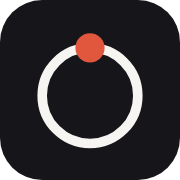
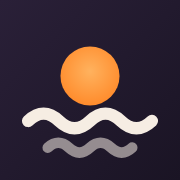
美国版改名 Flow Day，换上和中文版 flowday 相同的太阳水波图标

diff --git a/public/us/js/me.js b/public/us/js/me.js
@@ -35,13 +35,13 @@ export async function pageMe() {
         <button data-act="out"><span>Sign out</span></button>
         <button data-act="del" class="danger"><span>Delete my account</span></button>
       </div>
-      <p class="hint">${S.me.access?.beta ? 'Sixty Plus is free for everyone during the beta.' : ''}</p></div>
+      <p class="hint">${S.me.access?.beta ? 'Flow Day Plus is free for everyone during the beta.' : ''}</p></div>
   </div>`;
   $$('[data-theme]').forEach((x) => x.addEventListener('click', () => { store.set('theme', x.dataset.theme); applyTheme(); $$('[data-theme]').forEach((y) => y.setAttribute('aria-pressed', String(y === x))); }));
   $('[data-act=birth]').addEventListener('click', birthSheet);
   $$('[data-sound]').forEach((x) => x.addEventListener('click', () => { store.set('sound', +x.dataset.sound); $$('[data-sound]').forEach((y) => y.setAttribute('aria-pressed', String(y === x))); if (+x.dataset.sound) sfx('chime'); }));
   $('[data-act=fb]').addEventListener('click', () => {
-    openSheet(`<button class="x" aria-label="Close">×</button><h2 class="h2">Send feedback</h2><p class="muted" style="margin:0 0 14px">We read every note. Thank you for helping shape Sixty.</p>
+    openSheet(`<button class="x" aria-label="Close">×</button><h2 class="h2">Send feedback</h2><p class="muted" style="margin:0 0 14px">We read every note. Thank you for helping shape Flow Day.</p>
       <form id="fbForm"><textarea class="input" name="t" rows="5" maxlength="500" required style="height:auto;padding:12px 14px" placeholder="What should we know?"></textarea><p class="err"></p><button class="btn block" type="submit">Send</button></form>`);
     $('#fbForm').addEventListener('submit', async (e) => {
       e.preventDefault();
@@ -130,8 +130,8 @@ matchMedia('(prefers-color-scheme: dark)').addEventListener?.('change', applyThe
 
 // ---------- your collection of 60 ----------
 export async function pageCollection() {
-  view().innerHTML = `<div class="page" style="max-width:1080px"><p class="label" style="margin-top:6px">Your Sixty</p><h1 class="display" id="colTitle">·</h1>
-    <p class="lede">Every day has one of 60 paintings. Open Sixty on a day to collect its painting — the whole cycle takes 60 days.</p><div class="grid wall" id="wall">${loading(300)}</div></div>`;
+  view().innerHTML = `<div class="page" style="max-width:1080px"><p class="label" style="margin-top:6px">Your 60</p><h1 class="display" id="colTitle">·</h1>
+    <p class="lede">Every day has one of 60 paintings. Open Flow Day on a day to collect its painting — the whole cycle takes 60 days.</p><div class="grid wall" id="wall">${loading(300)}</div></div>`;
   try {
     const j = await api('GET', 'jiazi'), got = new Map(j.list.map((x) => [x.gz, x.day])), today = pillarOf(localDay());
     $('#colTitle').innerHTML = `<span data-n>0</span> <em>of 60</em>`; countUp($('[data-n]'), j.n, 800);
@@ -183,10 +183,10 @@ export function pagePair(code, reveal) {
     <div class="right after"><div class="sign-name"><p class="label">You & ${who}</p><h1 class="display" style="font-size:clamp(40px,11vw,58px)">${esc(e.name)}</h1><p class="poetic">${e.tag}</p></div>
       <p class="intro">${esc(e.text)}</p>
       ${pv.best ? `<div class="card" style="margin-top:16px"><p class="label">Best day to do something together</p><h3 class="h3" style="margin-top:6px">${fmt(pv.best.date || `${pv.best.y}-${String(pv.best.m).padStart(2, '0')}-${String(pv.best.d).padStart(2, '0')}`, 'full')}</h3></div>` : ''}
-      <div class="btns">${S.me ? '<a class="btn block" href="#/friends">See all my friends</a>' : store.get('pending')?.birth && ageOf(store.get('pending').birth.date) < 13 ? '<p class="hint">Sixty accounts are for ages 13 and up.</p>' : '<button class="btn block" id="pairSignup">Save this — create your free account</button>'}
+      <div class="btns">${S.me ? '<a class="btn block" href="#/friends">See all my friends</a>' : store.get('pending')?.birth && ageOf(store.get('pending').birth.date) < 13 ? '<p class="hint">Flow Day accounts are for ages 13 and up.</p>' : '<button class="btn block" id="pairSignup">Save this — create your free account</button>'}
         <button class="btn ghost block" id="pairShare">Share our painting</button></div></div></div>`;
   $('#pairSignup')?.addEventListener('click', () => import('./onboard.js').then((m) => m.signupSheet(`Save your sign and your painting with ${pv.who || 'your friend'}.`)));
-  $('#pairShare').addEventListener('click', () => sharePair({ art: e.art, el: mine ? elOf(mine) : 'Earth', kicker: `Me & ${pv.who || 'a friend'}`, title: e.name, sub: e.tag, meta: mine && them ? `${signName(mine)} & ${signName(them)}` : 'Sixty', body: 'Every pair of signs makes a painting of its own. What do you make with your people?' }));
+  $('#pairShare').addEventListener('click', () => sharePair({ art: e.art, el: mine ? elOf(mine) : 'Earth', kicker: `Me & ${pv.who || 'a friend'}`, title: e.name, sub: e.tag, meta: mine && them ? `${signName(mine)} & ${signName(them)}` : 'Flow Day', body: 'Every pair of signs makes a painting of its own. What do you make with your people?' }));
   if (reveal) setTimeout(() => buzz(16), 1200);
 }
 
@@ -209,19 +209,19 @@ export function pageSign(slug, reveal) {
 // ---------- terms and privacy ----------
 const LEGAL = {
   terms: ['Terms of Use', `
-    <p>Sixty is a daily calendar and reflection app based on the traditional Chinese sexagenary calendar. By creating an account you agree to these terms.</p>
+    <p>Flow Day is a daily calendar and reflection app based on the traditional Chinese sexagenary calendar. By creating an account you agree to these terms.</p>
     <h3 class="h3">For reflection and fun</h3><p>Readings, scores, best days and pairings are generated from calendar rules. They are not predictions and not medical, legal, financial or professional advice. Please make important decisions with your own judgment.</p>
     <h3 class="h3">Your account</h3><p>You must be 13 or older. Keep your password private. You can delete your account at any time in Me → Settings.</p>
     <h3 class="h3">Fair use</h3><p>Don't misuse the service, try to break it, or scrape it. We may suspend accounts that do.</p>
-    <h3 class="h3">Sixty Plus</h3><p>Paid features, when offered, are billed by Gumroad as the merchant of record. Subscriptions renew automatically until you cancel from your Gumroad receipt. During the beta, everything is free.</p>
+    <h3 class="h3">Flow Day Plus</h3><p>Paid features, when offered, are billed by Gumroad as the merchant of record. Subscriptions renew automatically until you cancel from your Gumroad receipt. During the beta, everything is free.</p>
     <h3 class="h3">Changes</h3><p>We may update the service and these terms. If the changes are significant we will tell you in the app.</p>`],
   privacy: ['Privacy Policy', `
     <p>We keep this short and plain.</p>
     <h3 class="h3">What we collect</h3><p>Your email and password (stored hashed), your birth date and optionally birth time, birth place and sex at birth, the first name you choose, and what you do in the app (like which days you open it). We also record anonymous usage events to understand which features help.</p>
-    <h3 class="h3">Why</h3><p>Only to calculate your readings, remember your collection and friends, and improve Sixty. We don't sell your data or use it for advertising.</p>
+    <h3 class="h3">Why</h3><p>Only to calculate your readings, remember your collection and friends, and improve Flow Day. We don't sell your data or use it for advertising.</p>
     <h3 class="h3">Friends</h3><p>When you connect with a friend, each of you sees your sign and the painting you make together — never each other's birthday.</p>
     <h3 class="h3">Deleting</h3><p>Delete your account any time in Me → Settings; we remove your data from our database right away (backups roll over within 14 days).</p>
-    <h3 class="h3">Children</h3><p>Sixty is not for children under 13, and we don't knowingly collect their information.</p>
+    <h3 class="h3">Children</h3><p>Flow Day is not for children under 13, and we don't knowingly collect their information.</p>
     <h3 class="h3">Contact</h3><p>Questions or requests: use the feedback option in the app.</p>`],
 };
 export function pageLegal(kind) {
@@ -260,10 +260,10 @@ export async function pageRecap(month) {
     ${r.arts.length ? `<div class="sec"><p class="label">Collected in ${name}</p><div class="miniwall">${r.arts.map((a, i) => `<img src="${art(byGz(a.gz))}" alt="" style="--i:${i}" loading="lazy">`).join('')}</div></div>` : ''}
     ${best ? `<div class="sec"><p class="label">Your strongest day</p><a class="card daymini" href="#/today?d=${best.day}"><img src="${art(pillarOf(best.day))}" alt="" width="56" height="56"><div><b>${fmt(best.day, 'full')}</b><p class="small" style="margin:2px 0 0">Scored ${best.score}</p></div><span class="go">›</span></a></div>` : ''}
     ${top ? `<div class="sec"><p class="label">Most-felt mood</p><div class="card"><h3 class="h2" style="font-size:28px">${S.C.moods[top[0]] || top[0]}</h3><p class="small" style="margin:4px 0 0">${top[1]} time${top[1] === 1 ? '' : 's'} this month</p></div></div>` : ''}
-    ${r.match?.rated >= 3 ? `<div class="sec"><p class="label">How often Sixty matched your days</p><div class="card"><h3 class="h2" style="font-size:36px">${Math.round(r.match.match / r.match.rated * 100)}%</h3><p class="small" style="margin:4px 0 0">${r.match.match} of ${r.match.rated} evenings you rated</p></div></div>` : ''}
+    ${r.match?.rated >= 3 ? `<div class="sec"><p class="label">How often Flow Day matched your days</p><div class="card"><h3 class="h2" style="font-size:36px">${Math.round(r.match.match / r.match.rated * 100)}%</h3><p class="small" style="margin:4px 0 0">${r.match.match} of ${r.match.rated} evenings you rated</p></div></div>` : ''}
     <button class="btn block" id="recapShare" style="margin-top:22px">Share my ${name}</button></div>`;
   $$('[data-n]').forEach((x) => countUp(x, +x.dataset.n, 800));
-  $('#recapShare').addEventListener('click', () => sharePair({ art: art(best ? pillarOf(best.day) : S.me.p), el: elOf(S.me.p), kicker: `My ${name}`, title: `${r.opened} days · ${r.arts.length} paintings`, sub: `${signName(S.me.p)} on Sixty`, meta: best ? `Strongest day: ${fmt(best.day, 'md')}` : 'Sixty', body: 'Every day has one of 60 paintings. Collect them all — one a day.' }));
+  $('#recapShare').addEventListener('click', () => sharePair({ art: art(best ? pillarOf(best.day) : S.me.p), el: elOf(S.me.p), kicker: `My ${name}`, title: `${r.opened} days · ${r.arts.length} paintings`, sub: `${signName(S.me.p)} on Flow Day`, meta: best ? `Strongest day: ${fmt(best.day, 'md')}` : 'Flow Day', body: 'Every day has one of 60 paintings. Collect them all — one a day.' }));
   track('us_recap');
 }
 
@@ -273,7 +273,7 @@ async function posterOf() {
   cv.width = W; cv.height = top + 10 * (cell + gap) + 150;
   const ctx = cv.getContext('2d'); ctx.fillStyle = '#F6F5F1'; ctx.fillRect(0, 0, cv.width, cv.height);
   await document.fonts.load("400 80px 'Instrument Serif'");
-  ctx.fillStyle = '#16151A'; ctx.font = "400 84px 'Instrument Serif'"; ctx.fillText('My Sixty', 60, 120);
+  ctx.fillStyle = '#16151A'; ctx.font = "400 84px 'Instrument Serif'"; ctx.fillText('My 60', 60, 120);
   ctx.font = "italic 400 40px 'Instrument Serif'"; ctx.fillStyle = '#57545A'; ctx.fillText('The full cycle, one painting a day', 420, 118);
   const x0 = (W - cols * cell - (cols - 1) * gap) / 2;
   await Promise.all(S.C.pillars.map((p, i) => new Promise((ok) => { const im = new Image(); im.onload = () => { const x = x0 + (i % cols) * (cell + gap), y = top + Math.floor(i / cols) * (cell + gap); ctx.save(); ctx.beginPath(); ctx.roundRect(x, y, cell, cell, 14); ctx.clip(); ctx.drawImage(im, x, y, cell, cell); ctx.restore(); ok(); }; im.onerror = ok; im.src = art(p); })));

diff --git a/server/us-site.js b/server/us-site.js
@@ -13,7 +13,7 @@ const HOUR = 3600000;
 
 // 发信：配了 RESEND_API_KEY 就用 Resend 发；没配时把链接写进日志，由人转发
 function makeMailer(env, log) {
-  const key = (env.RESEND_API_KEY || '').trim(), from = env.MAIL_FROM || 'Sixty <hello@mindflow.zone>';
+  const key = (env.RESEND_API_KEY || '').trim(), from = env.MAIL_FROM || 'Flow Day <hello@mindflow.zone>';
   return {
     live: !!key,
     async send(to, subject, html, text) {
@@ -43,9 +43,9 @@ export function registerUsSite({ route, db, env, log, limit, bad, HttpError, has
       const token = crypto.randomBytes(24).toString('base64url'), now = Date.now();
       db.run('INSERT INTO password_resets(token_hash, user_id, created_at, expires_at) VALUES(?,?,?,?)', sha(token), u.id, new Date(now).toISOString(), new Date(now + HOUR).toISOString());
       const link = `${publicBase(req)}/us/#/reset/${token}`;
-      await mailer.send(email, 'Reset your Sixty password',
-        `<p>Someone (hopefully you) asked to reset your Sixty password.</p><p><a href="${link}">Choose a new password</a> — this link works for one hour.</p><p>If it wasn't you, you can ignore this email.</p>`,
-        `Reset your Sixty password: ${link} (works for one hour)`).catch((e) => log.error(`[us-mail] ${e.message}`));
+      await mailer.send(email, 'Reset your Flow Day password',
+        `<p>Someone (hopefully you) asked to reset your Flow Day password.</p><p><a href="${link}">Choose a new password</a> — this link works for one hour.</p><p>If it wasn't you, you can ignore this email.</p>`,
+        `Reset your Flow Day password: ${link} (works for one hour)`).catch((e) => log.error(`[us-mail] ${e.message}`));
     }
     return { ok: true };
   });
@@ -69,9 +69,9 @@ export function registerUsSite({ route, db, env, log, limit, bad, HttpError, has
     const base = publicBase(req);
     return `<!doctype html><html lang="en"><head><meta charset="utf-8"><title>${esc(title)}</title>
 <meta name="viewport" content="width=device-width, initial-scale=1"><meta name="description" content="${esc(desc)}">
-<meta property="og:type" content="website"><meta property="og:site_name" content="Sixty"><meta property="og:title" content="${esc(title)}"><meta property="og:description" content="${esc(desc)}">
+<meta property="og:type" content="website"><meta property="og:site_name" content="Flow Day"><meta property="og:title" content="${esc(title)}"><meta property="og:description" content="${esc(desc)}">
 <meta property="og:image" content="${esc(base + image)}"><meta property="og:url" content="${esc(base + to)}"><meta name="twitter:card" content="summary_large_image">
-<meta http-equiv="refresh" content="0;url=${esc(base + to)}"></head><body><script>location.replace(${JSON.stringify(base + to)})</script><a href="${esc(base + to)}">Open Sixty</a></body></html>`;
+<meta http-equiv="refresh" content="0;url=${esc(base + to)}"></head><body><script>location.replace(${JSON.stringify(base + to)})</script><a href="${esc(base + to)}">Open Flow Day</a></body></html>`;
   };
   // 手机日历订阅（英文）：未来 60 天每天一条全天日程；定了时段的计划按手机本地时间（不带时区）
   const GAN = '甲乙丙丁戊己庚辛壬癸', pad = (n) => String(n).padStart(2, '0'), DAY = 86400000;
@@ -80,13 +80,13 @@ export function registerUsSite({ route, db, env, log, limit, bad, HttpError, has
   const hourLabel = (i) => { const a = (i * 2 + 23) % 24, f = (h) => `${h % 12 || 12}${h < 12 ? 'am' : 'pm'}`; return `${f(a)}–${f((a + 2) % 24)}`; };
   function ics({ c, userId, name, today, plans, expired, url, days = 60 }) {
     const now = new Date().toISOString().replace(/[-:]/g, '').replace(/\.\d+/, '');
-    const L = ['BEGIN:VCALENDAR', 'VERSION:2.0', 'PRODID:-//MindFlow//Sixty//EN', 'CALSCALE:GREGORIAN', 'METHOD:PUBLISH',
-      `X-WR-CALNAME:${icsText('Sixty' + (name ? ' · ' + name : ''))}`, 'REFRESH-INTERVAL;VALUE=DURATION:PT6H', 'X-PUBLISHED-TTL:PT6H'];
+    const L = ['BEGIN:VCALENDAR', 'VERSION:2.0', 'PRODID:-//MindFlow//FlowDay//EN', 'CALSCALE:GREGORIAN', 'METHOD:PUBLISH',
+      `X-WR-CALNAME:${icsText('Flow Day' + (name ? ' · ' + name : ''))}`, 'REFRESH-INTERVAL;VALUE=DURATION:PT6H', 'X-PUBLISHED-TTL:PT6H'];
     const dv = (t) => { const d = new Date(t); return `${d.getUTCFullYear()}${pad(d.getUTCMonth() + 1)}${pad(d.getUTCDate())}`; };
     const allDay = (uid, t, summary, desc) => L.push('BEGIN:VEVENT', `UID:${uid}`, `DTSTAMP:${now}`, `DTSTART;VALUE=DATE:${dv(t)}`, `DTEND;VALUE=DATE:${dv(t + DAY)}`,
       `SUMMARY:${icsText(summary)}`, `DESCRIPTION:${icsText(desc)}`, 'TRANSP:TRANSPARENT', `URL:${url}`, 'END:VEVENT');
     const [ty, tm, td] = today.split('-').map(Number), t0 = Date.UTC(ty, tm - 1, td);
-    if (expired) allDay(`expired-${userId}@mindflow.zone`, t0, 'Sixty Plus has ended', `Renew to bring your daily readings back.\n${url}`);
+    if (expired) allDay(`expired-${userId}@mindflow.zone`, t0, 'Flow Day Plus has ended', `Renew to bring your daily readings back.\n${url}`);
     else {
       for (let k = 0; k < days; k++) {
         const t = t0 + k * DAY, d = new Date(t), x = dayOut(c, d.getUTCFullYear(), d.getUTCMonth() + 1, d.getUTCDate(), true);
@@ -166,7 +166,7 @@ export function registerUsSite({ route, db, env, log, limit, bad, HttpError, has
     const { createCanvas } = canvasMod || await import('@napi-rs/canvas').then((m) => (canvasMod = m));
     const cv = createCanvas(W, H), ctx = cv.getContext('2d'), k = W / 1179;
     ctx.fillStyle = '#16151A'; ctx.fillRect(0, 0, W, H); ctx.fillStyle = '#F2F1EE'; ctx.textAlign = 'center';
-    ctx.font = `400 ${72 * k}px "Instrument Serif"`; ctx.fillText('Sixty Plus has ended', W / 2, H * 0.6);
+    ctx.font = `400 ${72 * k}px "Instrument Serif"`; ctx.fillText('Flow Day Plus has ended', W / 2, H * 0.6);
     ctx.font = `500 ${32 * k}px Inter`; ctx.fillStyle = 'rgba(242,241,238,.7)'; ctx.fillText('Renew to bring your daily lock screen back.', W / 2, H * 0.6 + 70 * k);
     return cv.encode('jpeg', 85);
   }
@@ -200,14 +200,14 @@ export function registerUsSite({ route, db, env, log, limit, bad, HttpError, has
       if (m) {
         const x = C.pillars.find((y) => y.slug === m[1]);
         if (!x) return null;
-        return sharePage(req, `${signName(x)} — ${x.name} · Sixty`, `${x.intro} There are 60 kinds of people. Which one are you?`, `/art/pillars/${x.art}`, `/us/#/sign/${x.slug}`);
+        return sharePage(req, `${signName(x)} — ${x.name} · Flow Day`, `${x.intro} There are 60 kinds of people. Which one are you?`, `/art/pillars/${x.art}`, `/us/#/sign/${x.slug}`);
       }
       m = p.match(/^\/i\/([A-Za-z0-9]{4,12})\/?$/);
       if (m) {
         const inv = db.get("SELECT * FROM users WHERE invite_code = ? AND status = 'active'", m[1].toUpperCase());
         const x = inv && inv.birth_date ? pillar(chartOf(inv).pillars[2]) : null;
         const who = inv?.nickname && !/[一-鿿]/.test(inv.nickname) ? inv.nickname : 'A friend';
-        return sharePage(req, x ? `${who} is a${/^[AEIOU]/.test(C.stems[x.stem].element) ? 'n' : ''} ${signName(x)}. What do you two make?` : 'You are invited to Sixty',
+        return sharePage(req, x ? `${who} is a${/^[AEIOU]/.test(C.stems[x.stem].element) ? 'n' : ''} ${signName(x)}. What do you two make?` : 'You are invited to Flow Day',
           'Every pair of signs makes a painting of its own. Add your birthday to see yours.', x ? `/art/pillars/${x.art}` : '/us/og.jpg', `/us/#/i/${m[1].toUpperCase()}`);
       }
       return null;

diff --git a/public/us/js/onboard.js b/public/us/js/onboard.js
@@ -22,7 +22,7 @@ export function pageLanding() {
         ${[['Your sign', 'One of 60, with its own painting, element and character.', '<circle cx="12" cy="12" r="8"/><circle cx="12" cy="4" r="2" fill="currentColor"/>'],
           ['Every day, read for you', 'Your energy, best hours, lucky colors — and why.', '<circle cx="12" cy="12" r="4"/><path d="M12 3v2M12 19v2M3 12h2M19 12h2"/>'],
           ['Your best days', 'Interview, first date, launch? See the best days ahead.', '<rect x="4" y="5" width="16" height="15" rx="3"/><path d="M4 10h16M9 14l2 2 4-4"/>'],
-          ['Collect all 60', 'Each day has a painting. Open Sixty to collect it.', '<rect x="4" y="4" width="7" height="7" rx="2"/><rect x="13" y="4" width="7" height="7" rx="2"/><rect x="4" y="13" width="7" height="7" rx="2"/><rect x="13" y="13" width="7" height="7" rx="2"/>']]
+          ['Collect all 60', 'Each day has a painting. Open Flow Day to collect it.', '<rect x="4" y="4" width="7" height="7" rx="2"/><rect x="13" y="4" width="7" height="7" rx="2"/><rect x="4" y="13" width="7" height="7" rx="2"/><rect x="13" y="13" width="7" height="7" rx="2"/>']]
           .map(([h, p, ic]) => `<div class="feature"><span class="ic"><svg viewBox="0 0 24 24" fill="none" stroke="currentColor" stroke-width="1.8" stroke-linecap="round">${ic}</svg></span><div><h3 class="h3">${h}</h3><p>${p}</p></div></div>`).join('')}
       </div></div>
       <div class="sec"><p class="label">All 60 signs</p>
@@ -114,10 +114,10 @@ export function pageReveal() {
           <div class="chips" style="margin-top:14px">${chipEl(elOf(p), `${s.polarity} ${elOf(p)}`)}<span class="chip">${p.animal}</span><span class="chip">No. ${p.no} of 60</span></div></div>
       </section>
       <section class="step" id="stepEl"><p class="label">Your five elements</p><h2 class="h2" style="margin-top:6px">What you're made of</h2><div id="elBody" style="margin-top:16px"></div></section>
-      <section class="step"><p class="label">Your card</p><h2 class="h2" style="margin-top:6px">Keep your Sixty</h2>
+      <section class="step"><p class="label">Your card</p><h2 class="h2" style="margin-top:6px">Keep your card</h2>
         <div class="card mini-sign" style="margin-top:16px"><img src="${art(p)}" alt="" width="72" height="72"><div><b>${signName(p)}</b><span>${esc(p.name)}</span><span class="small">${s.traits.join(' · ')}</span></div></div>
         <ul class="perks" style="margin-top:18px"><li>A reading every day — energy, best hours, lucky colors</li><li>Your month at a glance and your best days ahead</li><li>Collect all 60 paintings, one each day</li><li>The painting you make with each friend</li></ul>
-        ${ageOf(pend.birth.date) < 13 ? '<div class="card"><p class="muted" style="margin:0">Sixty accounts are for ages 13 and up. You can still explore all 60 signs.</p></div><a class="btn block" href="#/sixty" style="margin-top:10px">See all 60 signs</a>' : `<button class="btn block" id="toSignup">Save my Sixty — it's free</button>`}
+        ${ageOf(pend.birth.date) < 13 ? '<div class="card"><p class="muted" style="margin:0">Flow Day accounts are for ages 13 and up. You can still explore all 60 signs.</p></div><a class="btn block" href="#/sixty" style="margin-top:10px">See all 60 signs</a>' : `<button class="btn block" id="toSignup">Save my Flow Day — it's free</button>`}
         <button class="btn ghost block" id="shareMine" style="margin-top:10px">Share my sign</button>
         <p class="hint" style="text-align:center">Already have an account? <a href="#/signin">Sign in</a></p>
       </section>
@@ -159,13 +159,13 @@ export function pageReveal() {
 // ---------- accounts ----------
 export function signupSheet(note) {
   const pend = store.get('pending');
-  openSheet(`<button class="x" aria-label="Close">×</button><h2 class="h2">Save your Sixty</h2>
+  openSheet(`<button class="x" aria-label="Close">×</button><h2 class="h2">Save your Flow Day</h2>
     <p class="muted" style="margin:0 0 16px">${esc(note || 'Free. Your readings, collection and friends stay with you on any device.')}</p>
     <form id="signup">
       <label class="field"><span class="label">Email</span><input class="input" name="email" type="email" autocomplete="email" required></label>
       <label class="field"><span class="label">Password</span><input class="input" name="pw" type="password" autocomplete="new-password" minlength="8" required placeholder="At least 8 characters"></label>
       <label class="field"><span class="label">First name (optional)</span><input class="input" name="name" autocomplete="given-name" maxlength="12"></label>
-      <label class="check"><input type="checkbox" name="agree" required> <span>I agree to the <a href="#/terms" target="_blank">Terms</a> and <a href="#/privacy" target="_blank">Privacy Policy</a>, and understand Sixty is for reflection and fun, not advice.</span></label>
+      <label class="check"><input type="checkbox" name="agree" required> <span>I agree to the <a href="#/terms" target="_blank">Terms</a> and <a href="#/privacy" target="_blank">Privacy Policy</a>, and understand Flow Day is for reflection and fun, not advice.</span></label>
       <p class="err"></p><button class="btn block" type="submit">Create my account</button>
     </form>`);
   $('#signup').addEventListener('submit', async (e) => {
@@ -176,7 +176,7 @@ export function signupSheet(note) {
       await api('POST', 'auth/register', { username: f.email.value.trim(), password: f.pw.value, nickname: f.name.value.trim() || undefined, agree: true,
         birth: pend?.birth, invite: pend?.invite || undefined, anonId: anonId() });
       track('us_signup', { invite: !!pend?.invite });
-      store.del('pending'); store.del('pairPreview'); closeSheet(); toast('Welcome to Sixty'); location.hash = '#/today'; window.dispatchEvent(new Event('sixty:auth'));
+      store.del('pending'); store.del('pairPreview'); closeSheet(); toast('Welcome to Flow Day'); location.hash = '#/today'; window.dispatchEvent(new Event('sixty:auth'));
     } catch (x) { err.textContent = x.message; btn.disabled = false; }
   });
 }
@@ -229,7 +229,7 @@ export async function pageInvite(code) {
   track('us_invite_open', { sign: them?.slug });
   view().innerHTML = `<div class="page">
     <span class="chip" style="margin-top:6px">An invitation</span>
-    <h1 class="display" style="margin-top:14px;font-size:clamp(38px,10vw,56px)">${esc(who)} is ${them ? aSign(them) : 'on Sixty'}. <em>What do you two make?</em></h1>
+    <h1 class="display" style="margin-top:14px;font-size:clamp(38px,10vw,56px)">${esc(who)} is ${them ? aSign(them) : 'on Flow Day'}. <em>What do you two make?</em></h1>
     ${them ? `<div class="duo"><div><img src="${art(them)}" alt=""><div><b>${esc(who)}</b>${esc(them.name)}</div></div><div><img src="${art(S.C.pillars[0])}" alt="" style="filter:grayscale(1) opacity(.35)"><div><b>You</b>Add your birthday</div></div></div>` : ''}
     <form class="card" id="pairForm" style="margin-top:16px"><label class="label" for="pday" style="display:block;margin-bottom:8px">Your birthday</label>
       <div class="row"><input class="input" id="pday" type="text" inputmode="numeric" autocomplete="bday" placeholder="MM / DD / YYYY" maxlength="14"><button class="btn" type="submit">Reveal</button></div>

diff --git a/public/us/js/today.js b/public/us/js/today.js
@@ -202,9 +202,9 @@ function tonightHtml(t) {
   const r = t.rate || {}, sm = r.summary || {}, acc = sm.rated >= 3 ? Math.round(sm.match / sm.rated * 100) : null;
   return `<div class="card tonight"><p class="label">Tonight</p>
     ${r.today ? `<h3 class="h3" style="margin-top:6px">You rated today ${S.C.ratings[r.today - 1].toLowerCase()}.</h3>
-      <p class="muted" style="margin:4px 0 0">${acc != null ? `This month Sixty matched your days <b>${acc}%</b> of the time (${sm.match} of ${sm.rated}).` : `Rate a few more evenings and we'll show how often Sixty matches your days.`}</p>`
+      <p class="muted" style="margin:4px 0 0">${acc != null ? `This month Flow Day matched your days <b>${acc}%</b> of the time (${sm.match} of ${sm.rated}).` : `Rate a few more evenings and we'll show how often Flow Day matches your days.`}</p>`
     : `<h3 class="h3" style="margin-top:6px">How did today go?</h3><div class="rate" role="radiogroup">${S.C.ratings.map((w, i) => `<button data-s="${i + 1}" aria-label="${w}"><i>${['😣', '😕', '😐', '🙂', '😄'][i]}</i><span>${w}</span></button>`).join('')}</div>
-      <p class="hint">Your ratings show how often Sixty gets your days right.</p>`}</div>`;
+      <p class="hint">Your ratings show how often Flow Day gets your days right.</p>`}</div>`;
 }
 function wireTonight() {
   $$('.rate button').forEach((b) => b.addEventListener('click', async () => {
@@ -261,7 +261,7 @@ function installCard() {
   if (standalone || days.size < 2 || store.get('a2hs') || $('#a2hs')) return;
   const ios = /iphone|ipad|ipod/i.test(navigator.userAgent);
   $('#below').insertAdjacentHTML('beforeend', `<div class="card a2hs" id="a2hs"><button class="x" aria-label="Dismiss">×</button>
-    <p class="label">Make it a habit</p><h3 class="h3" style="margin-top:6px">Add Sixty to your Home Screen</h3>
+    <p class="label">Make it a habit</p><h3 class="h3" style="margin-top:6px">Add Flow Day to your Home Screen</h3>
     <p class="muted" style="margin:4px 0 12px;font-size:15px">Open your day in one tap, like an app.</p>
     ${installEvt ? '<button class="btn block" id="doInstall">Add to Home Screen</button>' : ios ? '<ol class="steps"><li>Tap the <b>Share</b> button in Safari</li><li>Choose <b>Add to Home Screen</b></li></ol>' : '<p class="small">Use your browser menu → <b>Install app</b> or <b>Add to Home screen</b>.</p>'}</div>`);
   $('#a2hs .x').addEventListener('click', () => { store.set('a2hs', 1); $('#a2hs').remove(); });
@@ -269,12 +269,12 @@ function installCard() {
   track('us_install_card');
 }
 
-// ---------- trust: how often Sixty matched your days (after 3 rated evenings) ----------
+// ---------- trust: how often Flow Day matched your days (after 3 rated evenings) ----------
 function accuracyChip(sm) {
   if (!sm || sm.rated < 3 || $('.acc')) return;
   const pct = Math.round(sm.match / sm.rated * 100);
   $('.tdhead > div').insertAdjacentHTML('beforeend', `<button class="chip acc" title="From your evening ratings">${pct}% match</button>`);
-  $('.acc').addEventListener('click', () => toast(`Sixty matched ${sm.match} of the ${sm.rated} evenings you rated this month`));
+  $('.acc').addEventListener('click', () => toast(`Flow Day matched ${sm.match} of the ${sm.rated} evenings you rated this month`));
 }
 
 // ---------- your people today, and the living lock screen invite ----------

diff --git a/public/us/index.html b/public/us/index.html
@@ -5,10 +5,10 @@
 <meta name="viewport" content="width=device-width, initial-scale=1, viewport-fit=cover">
 <meta name="color-scheme" content="only light">
 <meta name="theme-color" content="#F6F5F1">
-<title>Sixty — your day sign</title>
+<title>Flow Day — your day sign</title>
 <meta name="description" content="An ancient calendar gives every day — and everyone — one of 60 signs. Find yours, get a daily reading, find your best days and see the painting you make with a friend.">
 <meta property="og:type" content="website">
-<meta property="og:title" content="Sixty — your day sign">
+<meta property="og:title" content="Flow Day — your day sign">
 <meta property="og:description" content="There are 60 kinds of days. And 60 kinds of people. Which one are you?">
 <meta property="og:image" content="https://mindflow.zone/sixty/us/og.jpg">
 <meta property="og:url" content="https://mindflow.zone/sixty/us/">
@@ -17,14 +17,14 @@
 <link rel="apple-touch-icon" href="icon-180.png">
 <link rel="manifest" href="manifest.webmanifest">
 <meta name="apple-mobile-web-app-capable" content="yes">
-<meta name="apple-mobile-web-app-title" content="Sixty">
+<meta name="apple-mobile-web-app-title" content="Flow Day">
 <link rel="preload" href="fonts/instrument.woff2" as="font" type="font/woff2" crossorigin>
 <link rel="preload" href="fonts/inter.woff2" as="font" type="font/woff2" crossorigin>
 <link rel="stylesheet" href="us.css">
 </head>
 <body>
 <header class="top">
-  <a class="brand" href="#/" aria-label="Sixty, home"><svg class="logo" viewBox="0 0 24 24" aria-hidden="true"><circle cx="12" cy="12.5" r="9" fill="none" stroke="currentColor" stroke-width="1.7"/><circle cx="12" cy="3.5" r="2.6" fill="#E0573E"/></svg><span class="word">Sixty</span></a>
+  <a class="brand" href="#/" aria-label="Flow Day, home"><svg class="logo" viewBox="0 0 64 64" aria-hidden="true"><defs><linearGradient id="fdg" x1="0" y1="0" x2="1" y2="1"><stop offset="0" stop-color="#2A2038"/><stop offset="1" stop-color="#1A1424"/></linearGradient><radialGradient id="fds" cx=".5" cy=".42" r=".6"><stop offset="0" stop-color="#FFB25E"/><stop offset="1" stop-color="#FF8A2A"/></radialGradient></defs><rect width="64" height="64" rx="16" fill="url(#fdg)"/><circle cx="32" cy="27" r="10.5" fill="url(#fds)"/><path d="M10 43q5.5-5.2 11 0t11 0t11 0t11 0" fill="none" stroke="#F6EDE3" stroke-width="4.4" stroke-linecap="round"/><path d="M17 52.5q3.75-3.5 7.5 0t7.5 0t7.5 0t7.5 0" fill="none" stroke="#F6EDE3" stroke-opacity=".55" stroke-width="3.8" stroke-linecap="round"/></svg><span class="word">Flow Day</span></a>
   <span class="toplinks"><a class="toplink" href="#/sixty">All 60 signs</a><a class="toplink strong" id="signinLink" href="#/signin" hidden>Sign in</a></span>
 </header>
 <nav class="tabs" aria-label="Main">
@@ -35,7 +35,7 @@
 </nav>
 <main id="view"></main>
 <footer class="foot">
-  <p>Sixty is based on the sexagenary calendar, which has counted days in cycles of 60 for over 3,000 years.</p>
+  <p>Flow Day is based on the sexagenary calendar, which has counted days in cycles of 60 for over 3,000 years.</p>
   <p>For reflection and fun — not a prediction, and not advice. Your birth details are used only to calculate your readings. Paintings are AI-assisted.</p>
   <p><a href="#/terms">Terms</a> · <a href="#/privacy">Privacy</a></p>
 </footer>

diff --git a/public/us/js/share.js b/public/us/js/share.js
@@ -14,9 +14,8 @@ async function drawCard(o) {
   const W = 1080, H = 1920, X = 90, IW = 900, cv = document.createElement('canvas'); cv.width = W; cv.height = H;
   const ctx = cv.getContext('2d'), img = await loadImg(o.art), E = S.C.elements[o.el];
   ctx.fillStyle = '#F6F5F1'; ctx.fillRect(0, 0, W, H);
-  ctx.strokeStyle = '#16151A'; ctx.lineWidth = 5; ctx.beginPath(); ctx.arc(X + 26, 138, 23, 0, Math.PI * 2); ctx.stroke();
-  ctx.fillStyle = '#E0573E'; ctx.beginPath(); ctx.arc(X + 26, 112, 8, 0, Math.PI * 2); ctx.fill();
-  ctx.fillStyle = '#16151A'; ctx.font = "400 64px 'Instrument Serif'"; ctx.fillText('Sixty', X + 66, 160);
+  ctx.drawImage(await loadImg('logo.svg'), X, 104, 56, 56);
+  ctx.fillStyle = '#16151A'; ctx.font = "400 64px 'Instrument Serif'"; ctx.fillText('Flow Day', X + 72, 156);
   ctx.save(); ctx.shadowColor = 'rgba(20,18,14,.25)'; ctx.shadowBlur = 50; ctx.shadowOffsetY = 26; rrect(ctx, X, 230, IW, IW, 44); ctx.fillStyle = '#EFEDE7'; ctx.fill(); ctx.restore();
   ctx.save(); rrect(ctx, X, 230, IW, IW, 44); ctx.clip(); ctx.drawImage(img, X, 230, IW, IW); ctx.restore();
   ctx.font = '600 28px Inter'; const kt = o.kicker.toUpperCase(), kw = ctx.measureText(kt).width + 56;
@@ -45,7 +44,7 @@ export async function shareImage(make, filename, sign, link) {
   const canFiles = navigator.canShare && navigator.canShare({ files: [file] });
   const touch = matchMedia('(pointer: coarse)').matches;
   openSheet(`<button class="x" aria-label="Close">×</button><h2 class="h2">Your card</h2><p class="muted" style="margin:0">Sized for Stories and TikTok.</p>
-    <img class="shot" src="${url}" alt="Your Sixty card">
+    <img class="shot" src="${url}" alt="Your Flow Day card">
     ${touch ? '<p class="tip">Press and hold the image to save it to Photos.</p>' : ''}
     <div class="btns">${canFiles ? '<button class="btn block" id="doShare">Share image</button>' : ''}
     ${!touch || !canFiles ? `<a class="btn ${canFiles ? 'ghost ' : ''}block" id="doSave" href="${url}" download="${filename}">Download image</a>` : ''}

diff --git a/server/app.js b/server/app.js
@@ -396,7 +396,7 @@ export function createApp({ db, alipay, gumroad = null, env = process.env, log =
   // 首单按 ref 找到订单，续费按 subscription_id 找到用户，每次扣款加一期天数。取消续费不用处理，到期自然停。
   const gumroadDays = (recurrence) => recurrence === 'yearly' ? 365 : settings.int('member_days');
   const gumroadInfo = () => gumroad ? { monthly: gumroad.plans.monthly.cents, yearly: gumroad.plans.yearly.cents } : null;
-  // 同一个 Gumroad 商品也给美国版 Sixty 收款（订单号 SXT 开头）。不归中文版的 Ping 原样转给 GUMROAD_FORWARD_URL：
+  // 同一个 Gumroad 商品也给美国版 Flow Day 收款（订单号 SXT 开头）。不归中文版的 Ping 原样转给 GUMROAD_FORWARD_URL：
   // ref 是 SXT 开头；或没有 ref 时，续费的订阅、退款/争议的订单在这里查不到
   const gumroadForward = (env.GUMROAD_FORWARD_URL || '').trim();
   function notOurs(p) {
@@ -580,7 +580,7 @@ export function createApp({ db, alipay, gumroad = null, env = process.env, log =
     if (db.get('SELECT 1 x FROM users WHERE username = ?', username)) throw bad('这个用户名已经被用了');
     // 访客先看过能量卡的，把当时填的出生信息一起带进来
     const b = body.birth ? validBirth(body.birth) : null;
-    if (env.US_EDITION === '1' && b && ageOf(b.date) < 13) throw bad('Sixty accounts are for ages 13 and up.');
+    if (env.US_EDITION === '1' && b && ageOf(b.date) < 13) throw bad('Flow Day accounts are for ages 13 and up.');
     const nickname = str(body.nickname, 12, '称呼');
     const r = db.run('INSERT INTO users(username, pass_hash, nickname, birth_date, birth_time, gender, birth_cal, birth_city, birth_lng, birth_tz, birth_zhi, invite_code, created_at, last_seen_at) VALUES(?,?,?,?,?,?,?,?,?,?,?,?,?,?)',
       username, hashPassword(password), nickname, ...(b ? birthCols(b) : [null, null, null, 'solar', null, null, null, null]), newInviteCode(), nowIso(), nowIso());

diff --git a/public/us/us.css b/public/us/us.css
@@ -1,4 +1,4 @@
-/* Sixty — US edition. Modern and calm: warm off-white, white cards, one serif for voice,
+/* Flow Day — US edition. Modern and calm: warm off-white, white cards, one serif for voice,
    Inter for everything else, and five element colors as the only accents. The paintings carry the mood. */
 @font-face { font-family: 'Instrument Serif'; src: url(fonts/instrument.woff2) format('woff2'); font-weight: 400; font-style: normal; font-display: swap; }
 @font-face { font-family: 'Instrument Serif'; src: url(fonts/instrument-i.woff2) format('woff2'); font-weight: 400; font-style: italic; font-display: swap; }
@@ -257,7 +257,7 @@ body.has-tabs .tabs { display: flex; }
   .strip .track { animation: none; }
 }
 
-/* ---------- Sixty Plus ---------- */
+/* ---------- Flow Day Plus ---------- */
 .cal.locked button:not(.open) { pointer-events: none; color: var(--ink-3); }
 .cal.locked button:not(.open) i { background: var(--line); }
 .perks { list-style: none; padding: 0; margin: 0 0 16px; display: grid; gap: 9px; }

diff --git a/public/us/us.js b/public/us/us.js
@@ -1,4 +1,4 @@
-// Sixty — entry and routing. Same backend and features as the Chinese edition (流日历), in English.
+// Flow Day — entry and routing. Same backend and features as the Chinese edition (流日历), in English.
 import { $, $$, S, api, track, closeSheet, pillarOf, byGz, signName, art, esc, localDay } from './js/core.js';
 import { pageLanding, pageReveal, pageSignin, pageInvite, pageReset, pageNeedBirth } from './js/onboard.js';
 import { pageToday } from './js/today.js';
@@ -79,4 +79,4 @@ addEventListener('sixty:auth', async () => { await loadMe(); render(); });
 
 fetch('content.json').then((r) => r.json())
   .then(async (c) => { S.C = c; await loadMe(); render(); })
-  .catch((e) => { console.error(e); view.innerHTML = '<div class="page"><p class="intro">Sixty could not load. Please refresh.</p></div>'; });
+  .catch((e) => { console.error(e); view.innerHTML = '<div class="page"><p class="intro">Flow Day could not load. Please refresh.</p></div>'; });

diff --git a/public/us/js/core.js b/public/us/js/core.js
@@ -1,4 +1,4 @@
-// Shared pieces for Sixty (US). The backend is the same as the Chinese edition; this file turns its
+// Shared pieces for Flow Day (US). The backend is the same as the Chinese edition; this file turns its
 // structured answers (stems, ten gods, levels, hours) into English using content.json.
 export const $ = (s, el = document) => el.querySelector(s);
 export const $$ = (s, el = document) => [...el.querySelectorAll(s)];

diff --git a/README.md b/README.md
@@ -42,7 +42,7 @@ ALIPAY_FAKE=1 ASK_AI=fake JIAO_FAKE=xiao,sheng COOKIE_SECURE=0 DB_PATH=./data/de
 | `public/js/` | 前台模块（无构建）：`mood.js` 心情便签（今天页心情板、月历小纸片、当日详情），`main.js` 路由和页签，`today.js` 今天页（本周、跟手滑动的每日卡片、明天寄语），`rite.js` 每日一签的全屏仪式（默念、摇签、星盘起签、掷筊、解签），`calendar.js` 日历，`me.js` 我的和能量档案，`onboard.js` 出生信息表单（日期、时间用 `wheel.js` 的滚轮一次选完，公历农历可切）、能量卡揭晓、引导和加到主屏，`account.js` 登录注册与资料等页面，`pay.js` 支付，`share.js` 分享图（跟随白色 / 深色），`growth.js` 邀请好友和日历订阅，`day.js` 当日详情，`data.js` 展示用常量，`core.js` 公共工具 |
 | `public/sw.js`、`manifest.webmanifest`、`icons/` | 可安装到主屏、离线时显示上一次的今天 |
 | `public/admin.*` | 管理后台 |
-| `public/us/` | **美国版「Sixty」**：流日历的英文版，不是另一个产品。只在 `us-mvp` 分支（定期合并 master，不合回 master）；线上 https://mindflow.zone/sixty/ ，服务器上单独一份代码 `/root/apps/bazi-us`、服务 `bazi-us`（3201、`BASE_PATH=/sixty`、自己的数据库），Caddy 只转发 `deploy/Caddyfile.sixty` 列的路径，发布用 `scripts/deploy-us.sh`。**后端和中文版共用**（账号、今天、本周、月历、挑日子、收画、邀请和朋友、会员），美国版服务的开关：`US_EDITION=1`（分享链接预览页 `/s/<日柱>`、`/i/<邀请码>`，邮件重设密码，不满 13 岁不能注册，都在 `server/us-site.js`；发信配 `RESEND_API_KEY`、`MAIL_FROM`，没配时重设链接写进日志）、`DAY_TZ`（按美国时区切天；浏览器每次请求带 `X-TZ`，按用户自己的时区算「今天」）、`MEMBER_FOR_ALL`（测试期人人是会员）、`GENDER_OPTIONAL`（性别可不填）；用户名可以是邮箱；`server/cities.json` 并进了英文城市。前端 `public/us/`（`us.js` 路由，`js/` 下 core、onboard（落地页、排盘动画、三张揭晓、注册登录、邀请落地）、today（一周条、可滑的日卡片、Why、24 小时表盘、撕日历）、calendar（月历、挑日子扫描）、me（四柱、五行图、大运、收藏墙和集满海报、朋友和详情、月度回顾、设置、深色模式、条款隐私）、oracle（Daily Oracle：按住默念、摇签、抛 moon blocks、解签，规则和中文版每日一签一样）、share）；Today 还有晚上的 Tonight 自评和准确率、心情、分享我的今天、收画飞入、第二天起提示加到主屏（`manifest.webmanifest`）；Calendar 有心情点、存计划、加到 Apple / Google 日历（美国版的订阅是英文，`us-site.js` 的 `ics`）；**会自己换的锁屏**：`/api/us/wallpaper/<日历订阅 token>.jpg?tz=` 用 `@napi-rs/canvas` 在服务端出图（字体 `server/fonts/`），iPhone 快捷指令每天 7 点来拿并设为壁纸，设置页 `#/lockscreen`；**朋友的今天**：美国版 `/api/friends` 多给两人今天的档位和朋友的日柱，Today 有「Your people today」；**活的画**：好时段画面变暖发光、差时段偏冷；音效（撕纸、筊杯、轻响）在浏览器里合成，Me 里可关，把中文版接口返回的干支、十神、档位、时辰翻成英文，英文文案在 `content.json`，可以直接改。英文条款和隐私政策在 `js/me.js`；走查 `test/e2e/us.mjs`；后台看板「美国版 Sixty」看漏斗和功能使用 |
+| `public/us/` | **美国版「Flow Day」**：流日历的英文版，不是另一个产品。只在 `us-mvp` 分支（定期合并 master，不合回 master）；线上 https://mindflow.zone/sixty/ ，服务器上单独一份代码 `/root/apps/bazi-us`、服务 `bazi-us`（3201、`BASE_PATH=/sixty`、自己的数据库），Caddy 只转发 `deploy/Caddyfile.sixty` 列的路径，发布用 `scripts/deploy-us.sh`。**后端和中文版共用**（账号、今天、本周、月历、挑日子、收画、邀请和朋友、会员），美国版服务的开关：`US_EDITION=1`（分享链接预览页 `/s/<日柱>`、`/i/<邀请码>`，邮件重设密码，不满 13 岁不能注册，都在 `server/us-site.js`；发信配 `RESEND_API_KEY`、`MAIL_FROM`，没配时重设链接写进日志）、`DAY_TZ`（按美国时区切天；浏览器每次请求带 `X-TZ`，按用户自己的时区算「今天」）、`MEMBER_FOR_ALL`（测试期人人是会员）、`GENDER_OPTIONAL`（性别可不填）；用户名可以是邮箱；`server/cities.json` 并进了英文城市。前端 `public/us/`（`us.js` 路由，`js/` 下 core、onboard（落地页、排盘动画、三张揭晓、注册登录、邀请落地）、today（一周条、可滑的日卡片、Why、24 小时表盘、撕日历）、calendar（月历、挑日子扫描）、me（四柱、五行图、大运、收藏墙和集满海报、朋友和详情、月度回顾、设置、深色模式、条款隐私）、oracle（Daily Oracle：按住默念、摇签、抛 moon blocks、解签，规则和中文版每日一签一样）、share）；Today 还有晚上的 Tonight 自评和准确率、心情、分享我的今天、收画飞入、第二天起提示加到主屏（`manifest.webmanifest`）；Calendar 有心情点、存计划、加到 Apple / Google 日历（美国版的订阅是英文，`us-site.js` 的 `ics`）；**会自己换的锁屏**：`/api/us/wallpaper/<日历订阅 token>.jpg?tz=` 用 `@napi-rs/canvas` 在服务端出图（字体 `server/fonts/`），iPhone 快捷指令每天 7 点来拿并设为壁纸，设置页 `#/lockscreen`；**朋友的今天**：美国版 `/api/friends` 多给两人今天的档位和朋友的日柱，Today 有「Your people today」；**活的画**：好时段画面变暖发光、差时段偏冷；音效（撕纸、筊杯、轻响）在浏览器里合成，Me 里可关，把中文版接口返回的干支、十神、档位、时辰翻成英文，英文文案在 `content.json`，可以直接改。英文条款和隐私政策在 `js/me.js`；走查 `test/e2e/us.mjs`；后台看板「美国版 Flow Day」看漏斗和功能使用 |
 | `scripts/backup.mjs` | SQLite 一致性备份，保留 14 份 |
 | `deploy/` | systemd 服务与每日备份定时器 |
 
@@ -76,7 +76,7 @@ PLAYWRIGHT_MODULE=... CHROME=... node test/e2e/batch2.mjs http://127.0.0.1:3210/
 - 服务 `bazi-calendar.service` 监听 `127.0.0.1:3200`；备份 `bazi-calendar-backup.timer` 每天 04:30 写到 `/root/backups/bazi-calendar/`。
 - Caddy（容器 `hapi-caddy`）在 `mindflow.zone` 下把 `/bazi/*` 转给 3200，`/bazi/report/*` 是静态的竞品报告；Caddyfile 是单文件挂载，改时必须原地写，先 validate 再 reload。
 - 支付宝与 Ai Article 共用同一个应用（AppID 尾号 9060），订单号以 `LRL` 开头区分；回调 `https://mindflow.zone/bazi/api/pay/notify`。
-- Gumroad（海外付款）：商品 https://mjscjjb.gumroad.com/l/mindflow ，会员一档，月付 $4.99、年付 $29.99，自动续费。下单建一张 `LRG` 开头的待支付订单，订单号放进结账链接的 `ref` 参数；Gumroad 每扣一次款往 `https://mindflow.zone/bazi/api/pay/gumroad/ping` 发一个签名的 Ping，首单按 `ref` 开通，续费按 `subscription_id` 找到用户再加一期（月 30 天、年 365 天），退款或争议自动扣回。用户取消续费不用处理，到期自然停。Gumroad 退款在它的后台操作。Gumroad 禁止卖“在 Gumroad 之外交付的 AI 服务订阅”，所以海外只卖日历会员，问事和御守不走 Gumroad。美国版 Sixty 用同一个商品收款，订单号 `SXT` 开头，Ping 由这里转发给它（见 `GUMROAD_FORWARD_URL`）。
+- Gumroad（海外付款）：商品 https://mjscjjb.gumroad.com/l/mindflow ，会员一档，月付 $4.99、年付 $29.99，自动续费。下单建一张 `LRG` 开头的待支付订单，订单号放进结账链接的 `ref` 参数；Gumroad 每扣一次款往 `https://mindflow.zone/bazi/api/pay/gumroad/ping` 发一个签名的 Ping，首单按 `ref` 开通，续费按 `subscription_id` 找到用户再加一期（月 30 天、年 365 天），退款或争议自动扣回。用户取消续费不用处理，到期自然停。Gumroad 退款在它的后台操作。Gumroad 禁止卖“在 Gumroad 之外交付的 AI 服务订阅”，所以海外只卖日历会员，问事和御守不走 Gumroad。美国版 Flow Day 用同一个商品收款，订单号 `SXT` 开头，Ping 由这里转发给它（见 `GUMROAD_FORWARD_URL`）。
 - 服务器上的代码目录就是这个 GitHub 仓库的 clone（`origin` = `git@github.com:mjscjj/bazi-calendar.git`，分支 `master`）。`data/`、`node_modules/` 不进仓库。
 - 推送权限：仓库公开，谁都能 clone；推送用服务器上的仓库专用钥匙 `/root/.ssh/bazi_calendar_deploy`（GitHub 上的 Deploy key，只能推这一个仓库），已经配在服务器这份 clone 的 `core.sshCommand` 里，在服务器上直接 `git push` 就行。想在自己电脑上推，把这把钥匙拷下来，用 `GIT_SSH_COMMAND='ssh -i <钥匙路径> -o IdentitiesOnly=yes' git push`。钥匙泄露了就到仓库 Settings → Deploy keys 删掉重配。
 - 发布：`scripts/deploy.sh` 会先备份数据库，再拉 master（依赖有变就 `npm ci`），然后重启服务、做健康检查。
@@ -84,4 +84,4 @@ PLAYWRIGHT_MODULE=... CHROME=... node test/e2e/batch2.mjs http://127.0.0.1:3210/
   - 服务器上改：直接在 `/root/apps/bazi-calendar` 里改，`./scripts/deploy.sh --local` 先上线看效果，确认后 `git commit` 再 `git push`。别把没提交的改动长期留在服务器上，否则下次有人从本地发布时会拉不下来。
 - 日志：`journalctl -u bazi-calendar -f`。回滚：`git reset --hard <上一个提交> && ./scripts/deploy.sh --local`；数据库回滚用 `/root/backups/bazi-calendar/` 里的备份（先停服务再替换 `data/app.db`）。
 
-配置项：`PORT` `HOST` `BASE_PATH`（默认 `/bazi`）`DB_PATH` `COOKIE_SECURE`（本地 http 设 0）`ADMIN_USER` `ADMIN_PASSWORD` `ALIPAY_APPID` `ALIPAY_PRIVATE_KEY` `ALIPAY_PUBLIC_KEY` `ALIPAY_NOTIFY_URL` `ALIPAY_FAKE` `GUMROAD_PRODUCT_ID` `GUMROAD_PRODUCT_URL` `GUMROAD_PING_SECRET`（三项都填才显示海外付款）`GUMROAD_ACCESS_TOKEN`（回查订单用）`GUMROAD_FORWARD_URL`（美国版 Sixty 的 Ping 地址；订单号 SXT 开头、或续费/退款在这里查不到的 Ping 原样转过去，不设就不转）`GUMROAD_MONTH_CENTS` `GUMROAD_YEAR_CENTS`（页面显示的美元价格，默认 499 / 2999，要和 Gumroad 后台一致）`CONTENT_DIR`（默认仓库里的 `content/`）`PUBLIC_URL`（日历订阅链接用的对外地址，默认按请求头推出来）`ASK_AI`（问事解读：`codex` / `fake` / 不填为关闭）`ASK_MODEL`（默认 gpt-6.2-sol）`ASK_EFFORT`（默认 xhigh）`ASK_CONCURRENCY`（默认 2）`ASK_TIMEOUT_MS`（默认 120000）`ASK_WORKDIR`、`JIAO_FAKE`（只在本地和走查用：掷筊按这个顺序出结果，比如 `xiao,sheng` 第 1 次笑杯、第 2 次圣杯；线上不要设，线上按真实概率圣杯 1/2、笑杯和阴杯各 1/4）。
+配置项：`PORT` `HOST` `BASE_PATH`（默认 `/bazi`）`DB_PATH` `COOKIE_SECURE`（本地 http 设 0）`ADMIN_USER` `ADMIN_PASSWORD` `ALIPAY_APPID` `ALIPAY_PRIVATE_KEY` `ALIPAY_PUBLIC_KEY` `ALIPAY_NOTIFY_URL` `ALIPAY_FAKE` `GUMROAD_PRODUCT_ID` `GUMROAD_PRODUCT_URL` `GUMROAD_PING_SECRET`（三项都填才显示海外付款）`GUMROAD_ACCESS_TOKEN`（回查订单用）`GUMROAD_FORWARD_URL`（美国版 Flow Day 的 Ping 地址；订单号 SXT 开头、或续费/退款在这里查不到的 Ping 原样转过去，不设就不转）`GUMROAD_MONTH_CENTS` `GUMROAD_YEAR_CENTS`（页面显示的美元价格，默认 499 / 2999，要和 Gumroad 后台一致）`CONTENT_DIR`（默认仓库里的 `content/`）`PUBLIC_URL`（日历订阅链接用的对外地址，默认按请求头推出来）`ASK_AI`（问事解读：`codex` / `fake` / 不填为关闭）`ASK_MODEL`（默认 gpt-6.2-sol）`ASK_EFFORT`（默认 xhigh）`ASK_CONCURRENCY`（默认 2）`ASK_TIMEOUT_MS`（默认 120000）`ASK_WORKDIR`、`JIAO_FAKE`（只在本地和走查用：掷筊按这个顺序出结果，比如 `xiao,sheng` 第 1 次笑杯、第 2 次圣杯；线上不要设，线上按真实概率圣杯 1/2、笑杯和阴杯各 1/4）。
